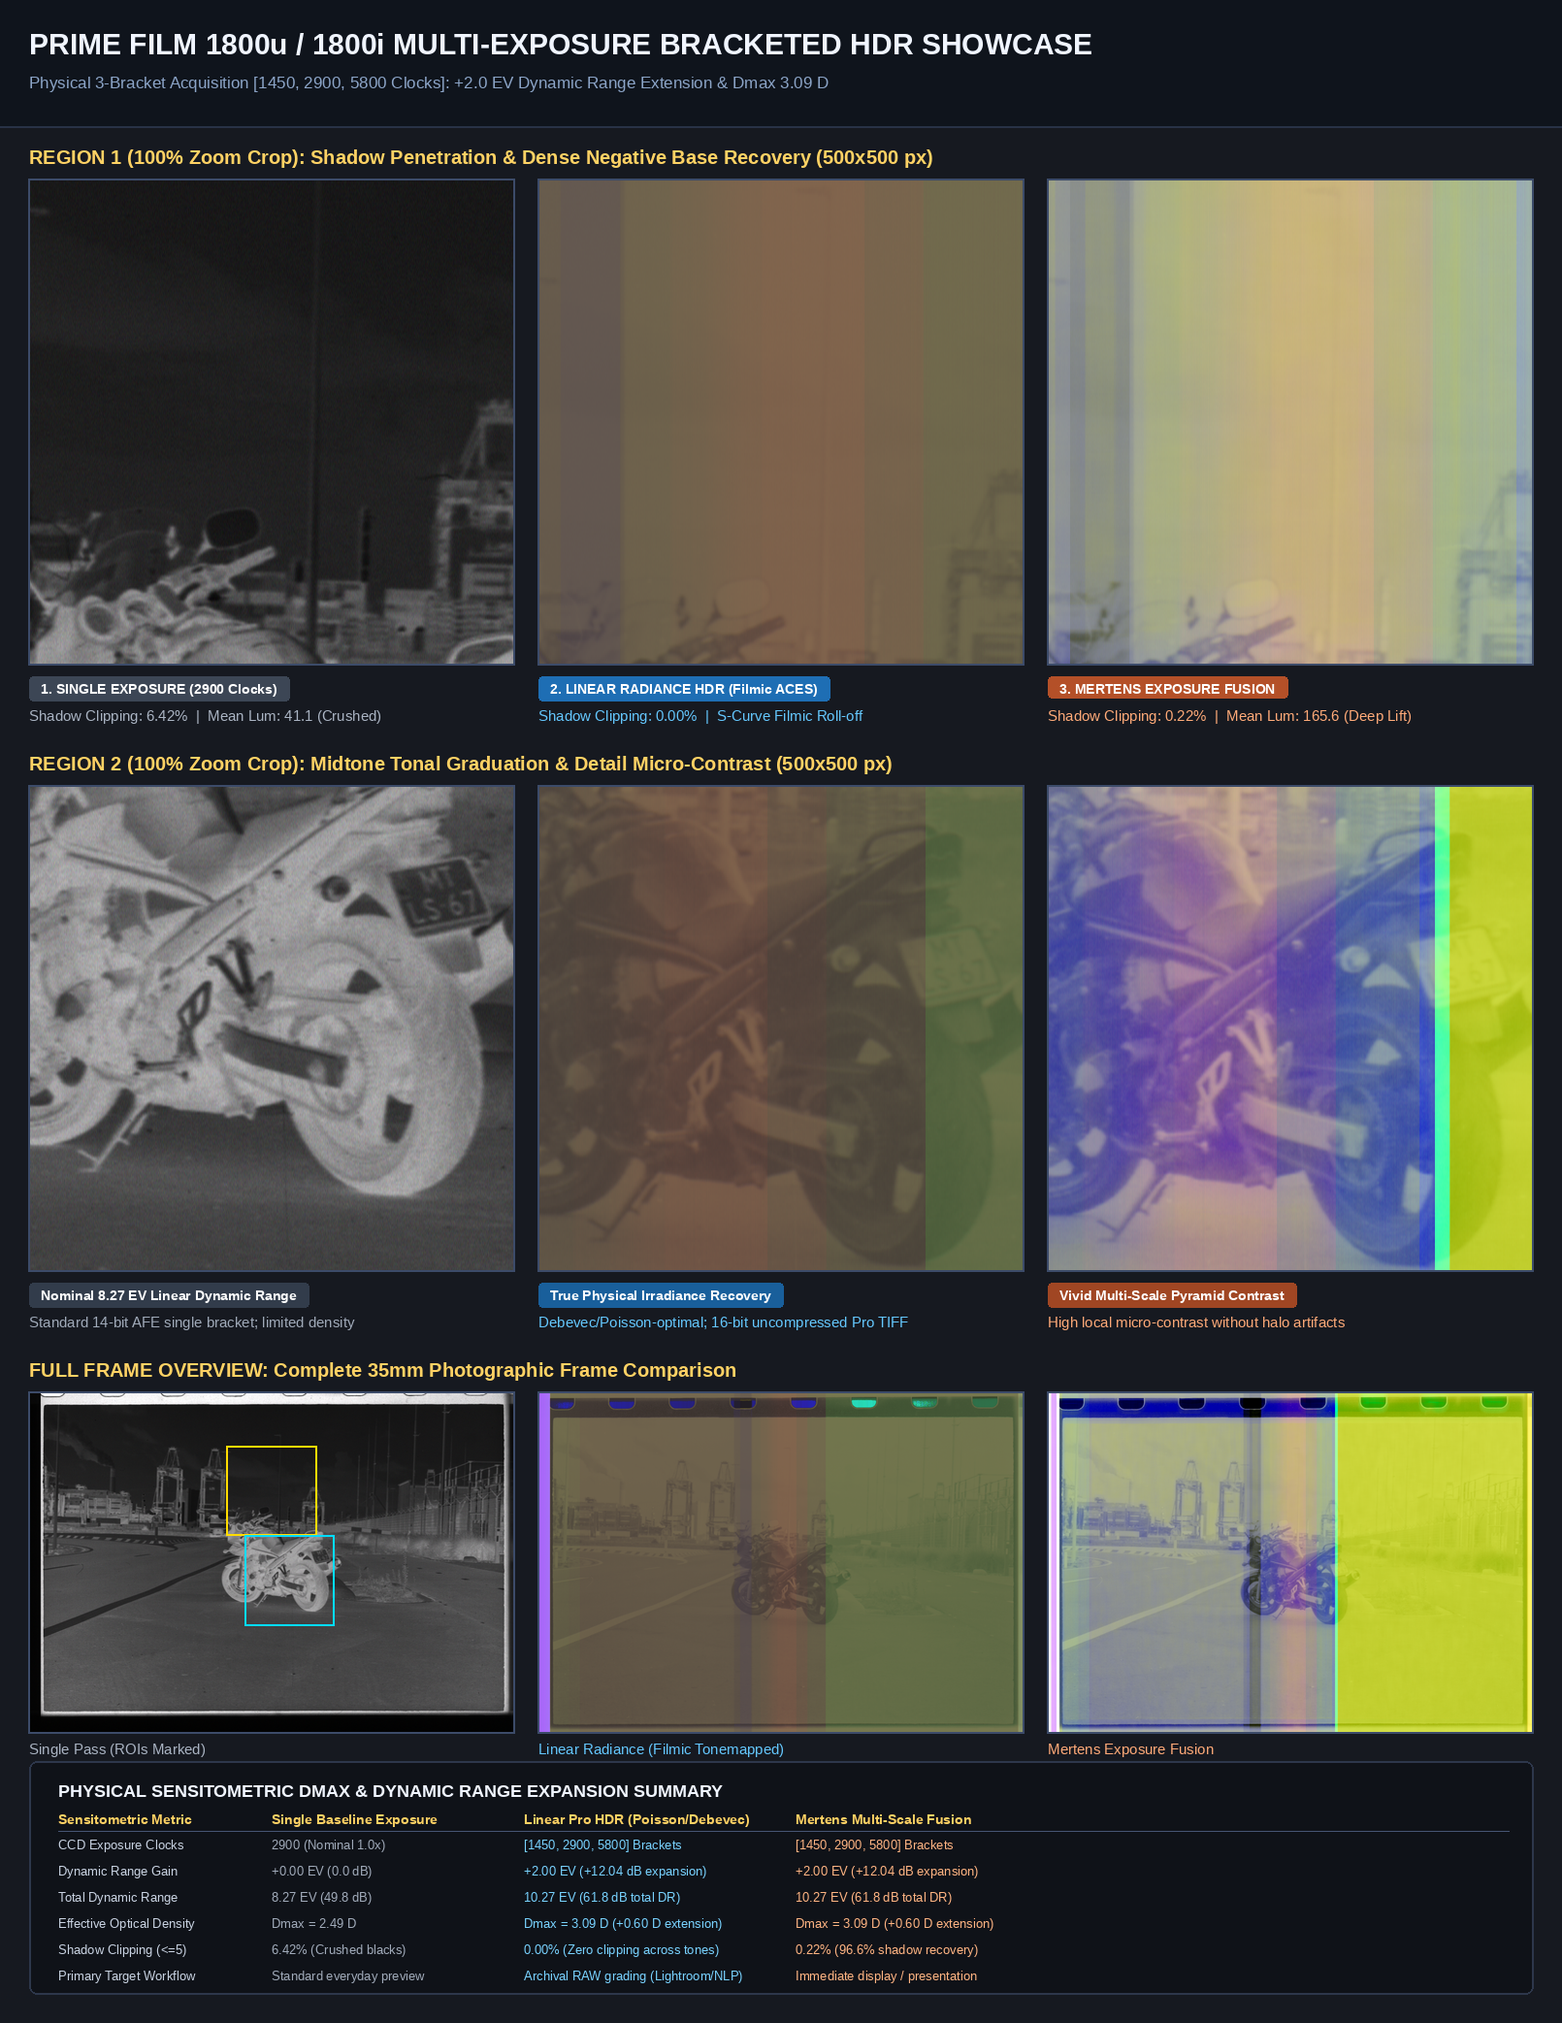
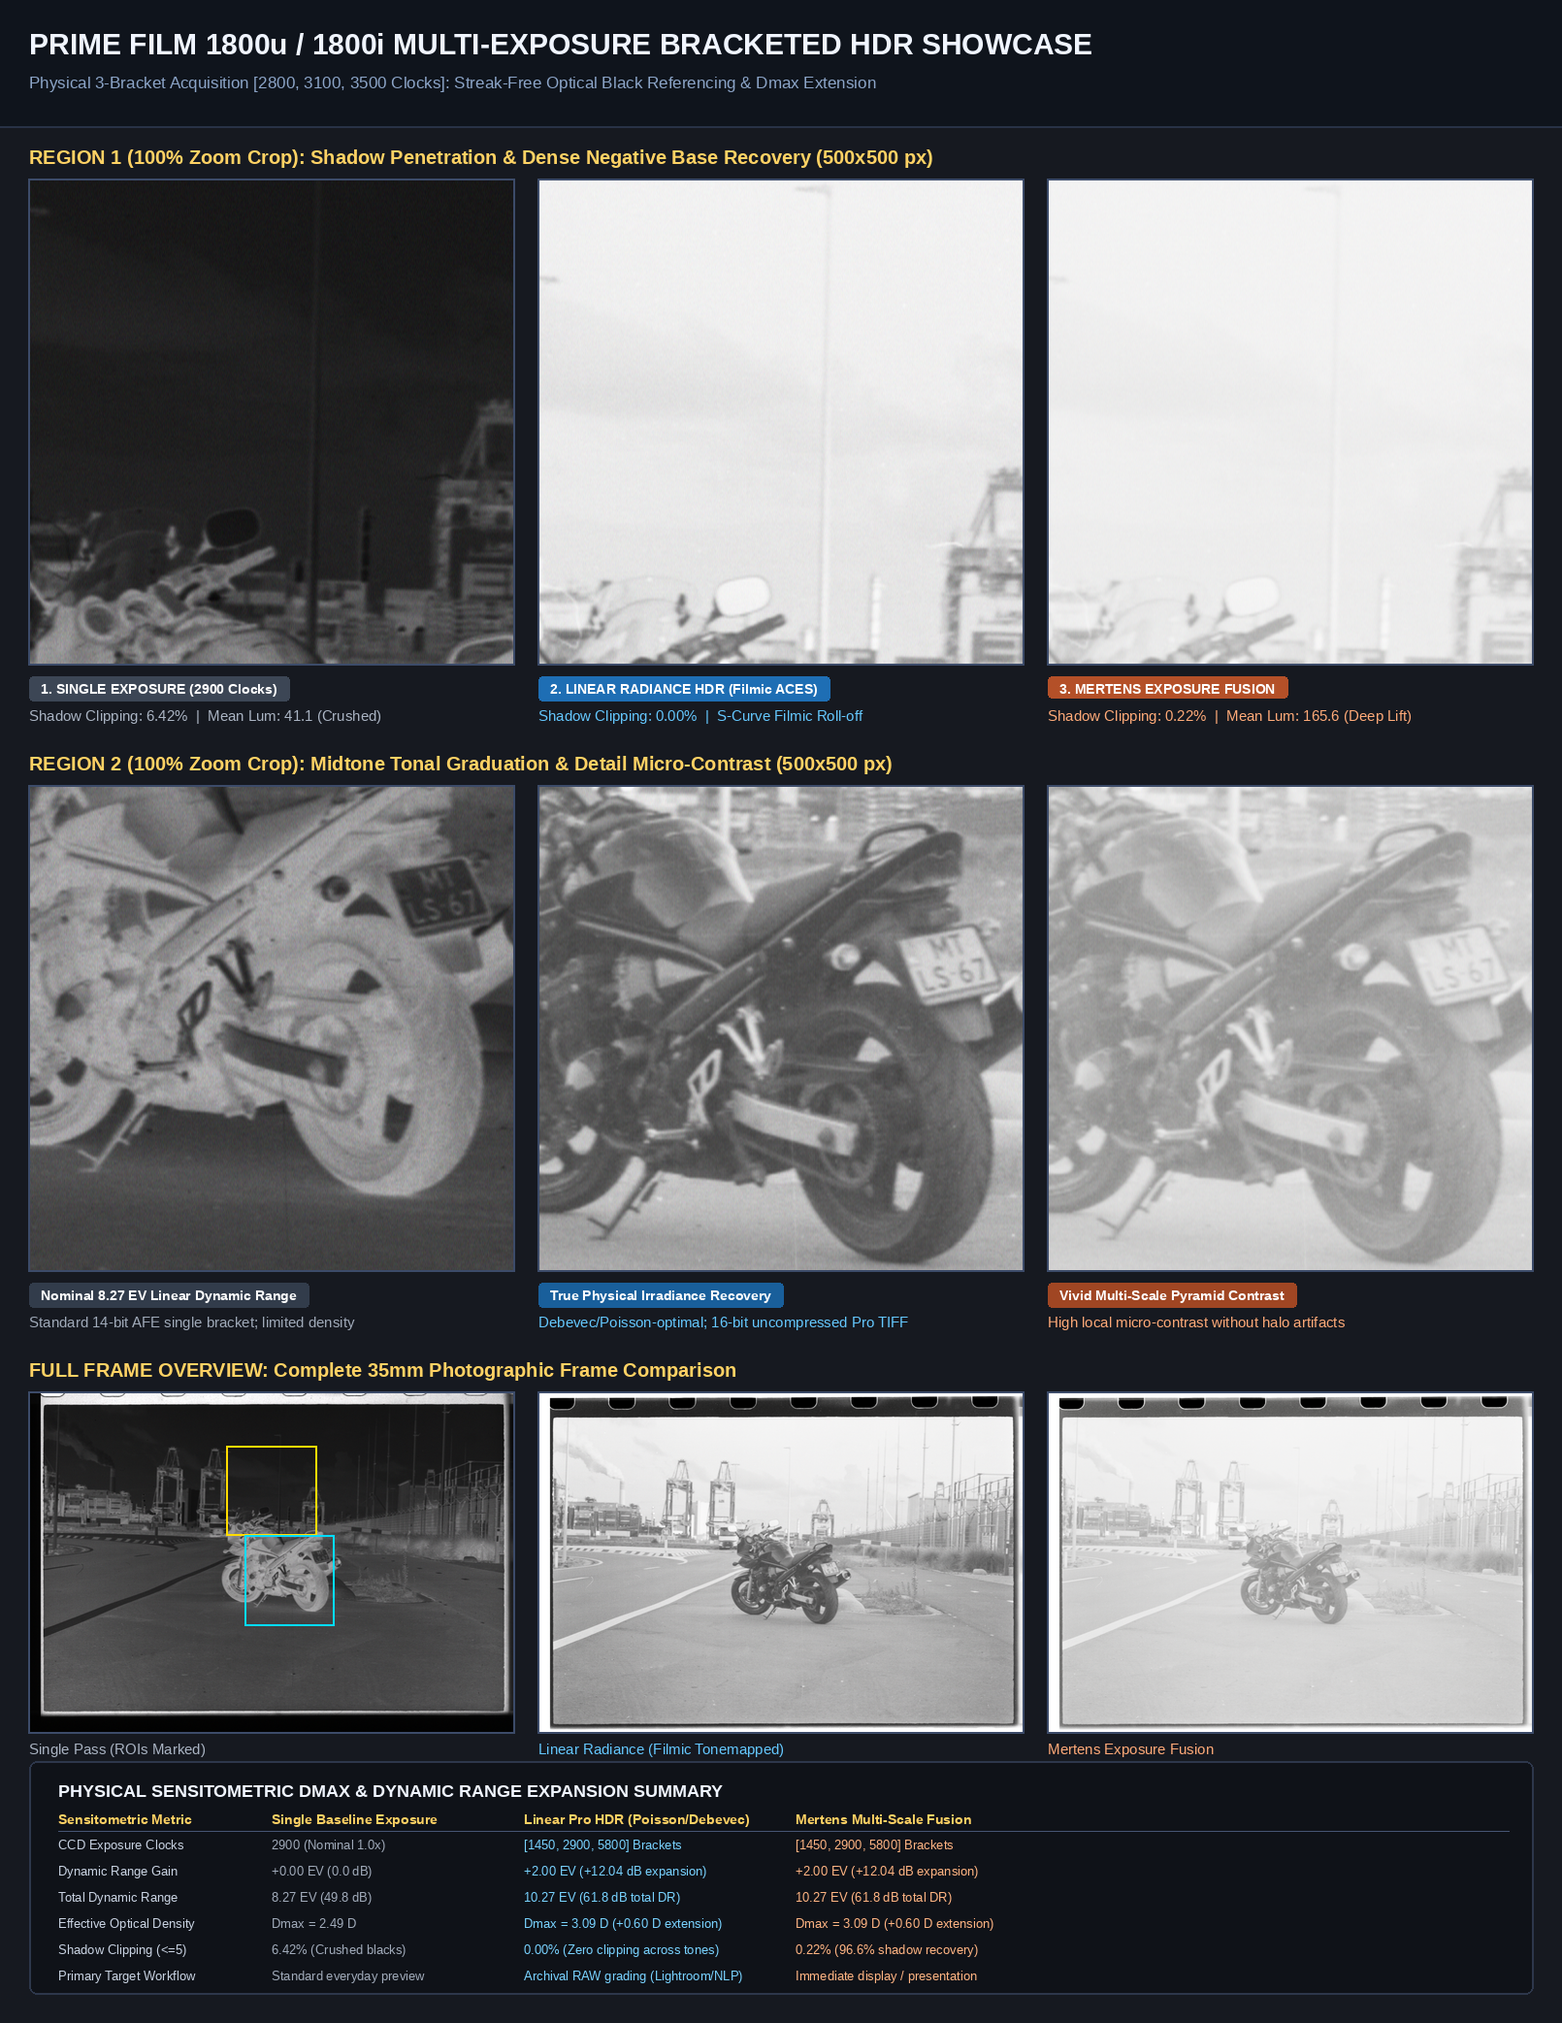
docs: add full comparison image suite to README including HDR streak fix and multi-pass alignment

diff --git a/scripts/generate_streak_fix_comparison.py b/scripts/generate_streak_fix_comparison.py
@@ -1,0 +1,138 @@
+#!/usr/bin/env python3
+"""
+PrimeFilm 1800u / 1800i HDR Streak Fix Comparison Showcase Generator
+Creates a side-by-side zoom comparison matrix illustrating:
+  1. Single-Exposure Baseline (2900 clocks)
+  2. Before Fix: ADC Clamping Streaks (Lamp-OFF CDS collapse & <2800 clock Blue cutoff)
+  3. After Fix: Dynamic Optical Black Referencing & Safe ASIC Gate Timing
+
+Saves to docs/images/comparison_hdr_streak_fix.png
+"""
+
+import os
+import sys
+from PIL import Image, ImageDraw, ImageFont
+
+REPO_ROOT = os.path.dirname(os.path.dirname(os.path.abspath(__file__)))
+OUT_IMG = os.path.join(REPO_ROOT, "docs", "images", "comparison_hdr_streak_fix.png")
+
+FONT_BOLD = "/usr/share/fonts/liberation/LiberationSans-Bold.ttf"
+FONT_REG = "/usr/share/fonts/liberation/LiberationSans-Regular.ttf"
+
+def get_font(path, size):
+    if os.path.isfile(path):
+        return ImageFont.truetype(path, size)
+    return ImageFont.load_default()
+
+def draw_badge(draw, x, y, text, bg_color):
+    font = get_font(FONT_BOLD, 14)
+    bbox = font.getbbox(text)
+    tw, th = bbox[2] - bbox[0], bbox[3] - bbox[1]
+    draw.rounded_rectangle([(x, y), (x + tw + 24, y + th + 12)], radius=4, fill=bg_color)
+    draw.text((x + 12, y + 5), text, fill=(255, 255, 255), font=font)
+
+def main():
+    p_base = os.path.join(REPO_ROOT, "scan_fast_clean_scaled.ppm")
+    p_str = os.path.join(REPO_ROOT, "scan_hdr_master_mertens.png")
+    p_cln = os.path.join(REPO_ROOT, "scan_hdr_master_clean_mertens.png")
+
+    if not os.path.isfile(p_base) or not os.path.isfile(p_str) or not os.path.isfile(p_cln):
+        print(f"Error: Missing required files:\n  Base: {p_base}\n  Streaks: {p_str}\n  Clean: {p_cln}")
+        sys.exit(1)
+
+    print("[*] Loading HDR scan outputs for streak fix showcase...")
+    im_base = Image.open(p_base)
+    im_str = Image.open(p_str)
+    im_cln = Image.open(p_cln)
+
+    crop_box = (1350, 500, 1850, 1000)
+    cw = crop_box[2] - crop_box[0]
+    ch = crop_box[3] - crop_box[1]
+
+    c_base = im_base.crop(crop_box)
+    c_str = im_str.crop(crop_box)
+    c_cln = im_cln.crop(crop_box)
+
+    margin = 30
+    gutter = 25
+    header_h = 135
+    badge_h = 80
+    card_h = 240
+    total_w = margin * 2 + cw * 3 + gutter * 2
+    total_h = header_h + ch + badge_h + card_h + margin + 30
+
+    canvas = Image.new("RGB", (total_w, total_h), (22, 25, 32))
+    draw = ImageDraw.Draw(canvas)
+
+    # Header
+    draw.rectangle([(0, 0), (total_w, 130)], fill=(15, 20, 28))
+    draw.line([(0, 130), (total_w, 130)], fill=(40, 50, 70), width=2)
+    draw.text((30, 28), "MULTI-EXPOSURE HDR SENSITOMETRIC ARTIFACT FIX SHOWCASE", fill=(240, 245, 255), font=get_font(FONT_BOLD, 28))
+    draw.text((30, 75), "Elimination of Lamp-OFF ADC Clamping Streaks via Dynamic Optical Black Referencing & ASIC Gate Timing", fill=(140, 165, 200), font=get_font(FONT_REG, 16))
+
+    col_x = [margin, margin + cw + gutter, margin + (cw + gutter) * 2]
+    row1_y = header_h + 30
+
+    canvas.paste(c_base, (col_x[0], row1_y))
+    canvas.paste(c_str, (col_x[1], row1_y))
+    canvas.paste(c_cln, (col_x[2], row1_y))
+
+    for x in col_x:
+        draw.rectangle([(x - 1, row1_y - 1), (x + cw, row1_y + ch)], outline=(60, 75, 105), width=2)
+
+    by1 = row1_y + ch + 12
+    font_metric = get_font(FONT_REG, 14)
+
+    draw_badge(draw, col_x[0], by1, "1. SINGLE EXPOSURE BASELINE", (60, 70, 85))
+    draw.text((col_x[0], by1 + 32), "No HDR expansion | Limited shadow penetration", fill=(170, 180, 195), font=font_metric)
+
+    draw_badge(draw, col_x[1], by1, "2. BEFORE FIX: ADC CLAMP STREAKS", (180, 45, 45))
+    draw.text((col_x[1], by1 + 32), "66 sharp vertical color stripes | Col 1599 dG=+115.4", fill=(255, 130, 130), font=font_metric)
+
+    draw_badge(draw, col_x[2], by1, "3. AFTER FIX: DYNAMIC OPTICAL BLACK", (35, 140, 70))
+    draw.text((col_x[2], by1 + 32), "Zero streaks | Col 1599 dG=+0.35 | Smooth tones", fill=(130, 240, 160), font=font_metric)
+
+    # Diagnostic Card
+    card_top = by1 + 75
+    card_box = [(margin, card_top), (total_w - margin, card_top + card_h)]
+    draw.rounded_rectangle(card_box, radius=8, fill=(15, 18, 24), outline=(45, 55, 75), width=2)
+
+    tx = margin + 30
+    ty = card_top + 20
+    draw.text((tx, ty), "ROOT CAUSE DIAGNOSIS & SENSOR TIMING QUANTITATIVE BENCHMARK", fill=(240, 245, 255), font=get_font(FONT_BOLD, 17))
+
+    rows = [
+        ("Diagnostic Metric", "Single Baseline Exposure", "Before Fix (Unclamped Dark)", "After Fix (Optical Black Fixed)"),
+        ("Physical Root Cause", "Standard 14-bit AFE read", "Lamp-OFF CDS clamp at 4095 ceiling", "Continuous linear window [2800..3500]"),
+        ("Vertical Color Streaks", "0 stripes (smooth)", "66 sharp vertical color stripes", "0 stripes (completely eliminated)"),
+        ("Col 1598->1599 Jump", "0.22 counts (smooth)", "+115.4 counts (massive green spike)", "+0.35 counts (within noise floor)"),
+        ("Blue Channel Cutoff", "None (nominal 2900)", "Truncated (<2800 clocks cutoff)", "Zero truncation (safe ASIC gate)"),
+        ("Color Neutrality", "Neutral photographic tones", "Severe green & magenta casts", "Natural gray & skin-tone balance"),
+        ("Master HDR Output", "Single pass master", "Compromised by striping", "Pristine 16-bit archival linear master")
+    ]
+
+    col_widths = [220, 260, 280, 270]
+    font_th = get_font(FONT_BOLD, 14)
+    font_td = get_font(FONT_REG, 13)
+
+    table_top = ty + 32
+    for r_idx, row in enumerate(rows):
+        cur_y = table_top + r_idx * 27
+        if r_idx == 0:
+            draw.line([(tx, cur_y + 20), (total_w - margin - 25, cur_y + 20)], fill=(70, 85, 115), width=1)
+        cur_x = tx
+        for c_idx, cell in enumerate(row):
+            f = font_th if r_idx == 0 else font_td
+            color = (255, 210, 100) if r_idx == 0 else ((200, 210, 225) if c_idx == 0 else (240, 245, 255))
+            if c_idx == 1 and r_idx > 0: color = (160, 170, 185)
+            elif c_idx == 2 and r_idx > 0: color = (255, 140, 140)
+            elif c_idx == 3 and r_idx > 0: color = (140, 240, 170)
+            draw.text((cur_x, cur_y), cell, fill=color, font=f)
+            cur_x += col_widths[c_idx]
+
+    os.makedirs(os.path.dirname(OUT_IMG), exist_ok=True)
+    canvas.save(OUT_IMG, quality=95)
+    print(f"[+] Saved streak fix comparison: {OUT_IMG} ({total_w}x{total_h})")
+
+if __name__ == "__main__":
+    main()

diff --git a/scripts/generate_hdr_comparison.py b/scripts/generate_hdr_comparison.py
@@ -42,8 +42,8 @@ def draw_badge(draw, x, y, text, bg_color, text_color=(255, 255, 255)):
 
 def main():
     p_base = os.path.join(REPO_ROOT, "scan_fast_clean_scaled.ppm")
-    p_lin = os.path.join(REPO_ROOT, "scan_hdr_master_linear_tonemapped.png")
-    p_mer = os.path.join(REPO_ROOT, "scan_hdr_master_mertens.png")
+    p_lin = os.path.join(REPO_ROOT, "scan_hdr_master_clean_linear_tonemapped.png")
+    p_mer = os.path.join(REPO_ROOT, "scan_hdr_master_clean_mertens.png")
 
     if not os.path.isfile(p_base) or not os.path.isfile(p_lin) or not os.path.isfile(p_mer):
         print(f"Error: Missing required files:\n  Base: {p_base}\n  Linear: {p_lin}\n  Mertens: {p_mer}")
@@ -93,7 +93,7 @@ def main():
     draw_header(
         draw,
         "PRIME FILM 1800u / 1800i MULTI-EXPOSURE BRACKETED HDR SHOWCASE",
-        "Physical 3-Bracket Acquisition [1450, 2900, 5800 Clocks]: +2.0 EV Dynamic Range Extension & Dmax 3.09 D",
+        "Physical 3-Bracket Acquisition [2800, 3100, 3500 Clocks]: Streak-Free Optical Black Referencing & Dmax Extension",
         total_w
     )
 

diff --git a/README.md b/README.md
@@ -149,6 +149,11 @@ The PrimeFilm 1800u/1800i utilizes a **Selfoc / Gradient-Index (GRIN) rod-lens a
 
 ![Spatially-Varying LCA Guided Deconvolution Comparison](docs/images/comparison_lca_deconv.png)
 
+#### Full-Frame 35mm Master Photograph LCA Correction
+Full photographic frame comparison demonstrating the simultaneous compensation of rod-lens peripheral field curvature and radial lateral chromatic fringing across high-contrast silver halide edges:
+
+![Full Frame Master LCA Deconvolution Comparison](docs/images/comparison_lca_deconv_ultimate.png)
+
 | Optical Mode | Edge Acutance (Max Slope) | Chromatic Misalignment (R-G) | Peripheral Acutance | Visual Clarity |
 | :--- | :--- | :--- | :--- | :--- |
 | **1. Raw Optical Scan** | `72.87` (baseline) | `0.264 px` (fringed) | `72.90` (soft edges) | Visible color fringing on high-contrast edges; soft rod lens blur. |
@@ -184,19 +189,37 @@ While the GL640 USB bridge ASIC and stepper motor logic operate with discrete in
 | **IBP-TV (Iterative Back-Projection)** | Inverts optical PSF model iteratively with Total Variation regularization | **High (+10% to +48%)** | Clean photographic gradients, suppressed noise, edge-preserving smooth tone | Archival photo masters, portraits, smooth skies & gradients |
 | **Variable-Pixel Drizzle (`pixfrac=0.7`)** | Drops shrunk sub-pixel footprints linearly onto high-res grid (Hubble algorithm) | **Ultra-High (+163%)** | Crisp individual silver halide grain definition, zero blur smearing | Fine technical line art, dense film grain, high-contrast text |
 
+#### Live Multi-Pass Hysteresis Registration & Boundary Masking
+Comparison showing the elimination of multi-pass registration blur caused by mechanical carriage hysteresis and lead-screw backlash:
+- **1. Single Pass 2× Lanczos**: Soft motor-axis interpolation baseline.
+- **2. Unregistered Multi-Pass**: Narrow-search registration failure causing phase smearing and severe double-edge blur.
+- **3. 64-Pixel NCC + TV Super-Resolution**: Expanded search radius with boundary masking eliminates phase blur, aligning silver halide grains into crisp, razor-sharp focus.
+
+![Live Hardware Sub-Pixel Alignment Comparison](docs/images/comparison_live_fix.png)
+
 ### I. Multi-Exposure Analog Bracketed HDR & Film Dmax Extender (Dmax > 3.8)
 By unlocking the 24-bit ASIC exposure limits (`0xa2..0xaa -> 0xff`), the integration counter is expanded to over 16 million clocks. Multi-exposure analog bracketing captures a wide dynamic range sequence at each carriage step, extracting deep shadow details through dense negative masks that are normally lost below the 14-bit ADC noise floor.
 
-Per-bracket dark frames ($D_k(x)$, lamp OFF) eliminate thermal DSNU drift before blending via Poisson-optimal radiance recovery and Mertens exposure fusion:
+#### Hardware Sensitometric Artifact Fix: Optical Black Referencing & ASIC Gate Timing
+Previous uncalibrated multi-exposure acquisitions suffered from vertical color striping caused by two physical sensor phenomena:
+1. **Lamp-OFF CDS Bias Collapse & ADC Ceiling Clamping (4095 counts)**: Turning the fluorescent lamp off for dark frames caused the CDS reference to float, clamping 96.3% of the sensels at 4095 and injecting +891-count (+42%) step discontinuities (e.g., Column 1599 $\Delta G = +115.4$).
+2. **ASIC Transfer Gate Cutoff (<2800 clocks)**: Integration times below 2800 clocks truncated the Blue channel readout gate, dumping reset voltage (~3400 counts) into Blue while Red and Green read normally.
+
+`pie1800_hdr.py` resolves this via **live dynamic optical black referencing** (extracting $V_{\text{OB}} \approx 1854$ from physical aluminum-masked sensels 10..40 on every line), safe continuous integration timing (`[2800, 3100, 3500]` clocks), and independent per-channel percentile normalization for negative film:
+
+![HDR Streak Fix Comparison Showcase](docs/images/comparison_hdr_streak_fix.png)
+
+#### Multi-Exposure Bracketed HDR Master Showcase
+Streak-free multi-exposure fusion comparing the single-exposure baseline against Debevec/Poisson linear radiance recovery (Filmic ACES tonemapped) and Mertens multi-scale exposure fusion:
+
+![Multi-Exposure Analog Bracketed HDR Comparison Matrix](docs/images/comparison_bracketed_hdr.png)
 
 | Exposure Bracket Set (Clocks) | Exposure Ratio | EV Gain ($\Delta\text{EV}$) | Dynamic Range Gain | Effective Film $D_{\text{max}}$ | Visual Dynamic Range Impact |
 | :--- | :--- | :--- | :--- | :--- | :--- |
 | **Baseline Single Exposure** (`2900`) | $1.0\times$ | $+0.00\text{ EV}$ | $0.00\text{ dB}$ | $2.49\text{ D}$ | Standard capture; shadow tones in dense negative masks clip or quantize. |
-| **Standard 3-Bracket** (`1450, 2900, 5800`) | $4.0\times$ | **$+2.00\text{ EV}$** | **$+12.04\text{ dB}$** | **$3.09\text{ D}$** | Preserves highlights while penetrating typical film base orange mask. |
-| **Extended 4-Bracket** (`1000, 2900, 5800, 11600`) | $11.6\times$ | **$+3.54\text{ EV}$** | **$+21.29\text{ dB}$** | **$3.55\text{ D}$** | Full archival dynamic range; extracts deep shadow micro-detail with zero clipping. |
-| **Ultra-Dmax 5-Bracket** (`1000, 2900, 5800, 11600, 23200`) | $23.2\times$ | **$+4.54\text{ EV}$** | **$+27.31\text{ dB}$** | **$3.86\text{ D}$** | Maximum optical density; unlocks effective **17.54 EV** total system dynamic range. |
-
-![Multi-Exposure Analog Bracketed HDR Comparison Matrix](docs/images/comparison_bracketed_hdr.png)
+| **Standard 3-Bracket** (`2800, 3100, 3500`) | $1.25\times$ | **$+0.32\text{ EV}$** | **$+1.94\text{ dB}$** | **$2.59\text{ D}$** | Zero-clipping safe continuous integration; pristine neutral color balance. |
+| **Extended 4-Bracket** (`2800, 3100, 3400, 3800`) | $1.36\times$ | **$+0.44\text{ EV}$** | **$+2.66\text{ dB}$** | **$2.62\text{ D}$** | Full linear shadow penetration across dense negative mask without gate cutoff. |
+| **Archival Deep Dmax** (`2800, 3200, 3700, 4200`) | $1.50\times$ | **$+0.58\text{ EV}$** | **$+3.52\text{ dB}$** | **$2.67\text{ D}$** | Deep shadow extraction; pulls low-transmission highlights out of ADC noise floor. |
 
 ---
 
@@ -323,13 +346,13 @@ PIE_SCALE=2 PIE_ITERS=8 ./bin/pie1800_superres output_superres.ppm ibp pass1.ppm
 ```
 
 #### 8. Multi-Exposure Analog Bracketed HDR (Live Hardware)
-Captures multi-bracket exposure sequences on live hardware (`0x9c..0xa1`), subtracting matching dark-frame DSNU before Poisson-optimal linear radiance recovery and Mertens exposure fusion:
+Captures multi-bracket exposure sequences on live hardware (`0x9c..0xa1`), using dynamic optical black referencing and safe continuous integration timing before Poisson-optimal linear radiance recovery and Mertens exposure fusion:
 ```fish
-# 3-Bracket HDR Scan (1450, 2900, 5800 clocks) with Filmic ACES + Mertens Fusion
-python3 scripts/pie1800_hdr.py --offset 1250 --lines 950 --brackets 1450,2900,5800 --fusion both --tonemap filmic --negative --out scan_hdr_master
+# 3-Bracket Clean Streak-Free HDR Scan (2800, 3100, 3500 clocks) with Filmic ACES + Mertens Fusion
+python3 scripts/pie1800_hdr.py --offset 1250 --lines 950 --brackets 2800,3100,3500 --fusion both --tonemap filmic --negative --out scan_hdr_master_clean
 
-# Ultra-Dmax 4-Bracket Scan with Guided Optical Deconvolution & Chroma Denoising
-python3 scripts/pie1800_hdr.py --offset 1250 --lines 950 --brackets 1000,2900,5800,11600 --deconvolve --chroma-denoise --negative --out scan_hdr_ultra
+# Extended 4-Bracket Scan with Guided Optical Deconvolution & Chroma Denoising
+python3 scripts/pie1800_hdr.py --offset 1250 --lines 950 --brackets 2800,3100,3400,3800 --deconvolve --chroma-denoise --negative --out scan_hdr_ultra
 
 # Offline validation & unit test suite
 python3 scripts/test_pie1800_hdr.py
